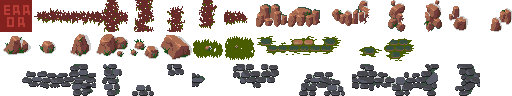
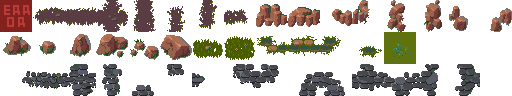
Finish second iteration for humid land

diff --git a/src/generation/object/lib/object_name.rs b/src/generation/object/lib/object_name.rs
@@ -71,6 +71,8 @@ pub enum ObjectName {
   ForestBush2,
   ForestBush3,
   ForestBush4,
+  Land3Grass1,
+  Land3Grass2,
   PathRight,
   PathHorizontal,
   PathCross,
